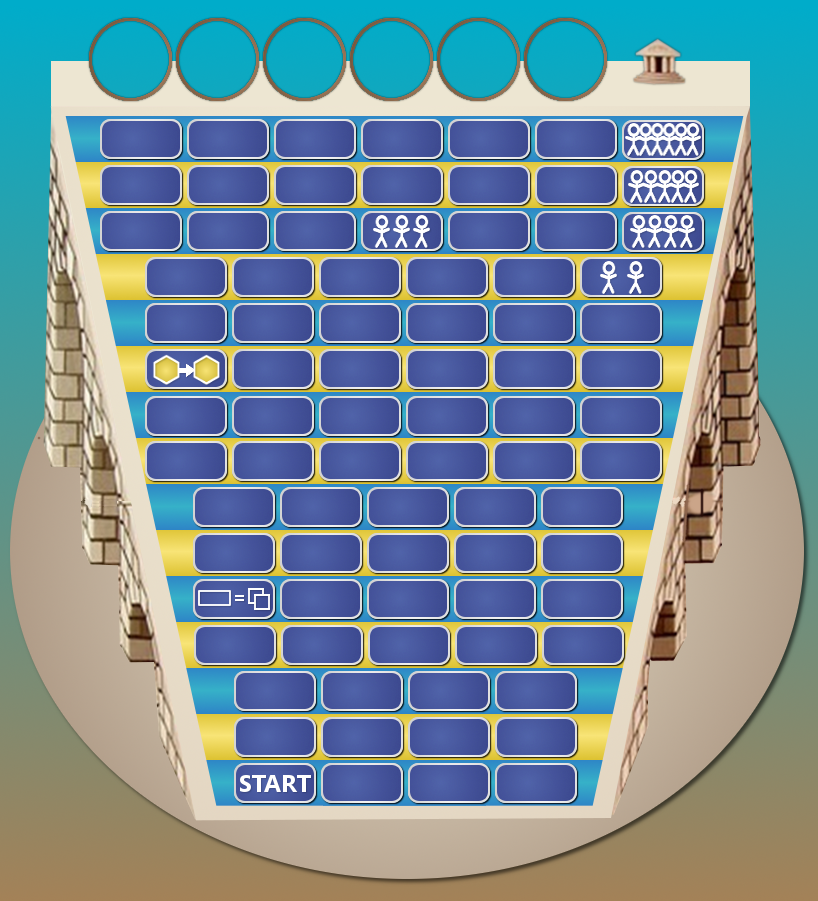
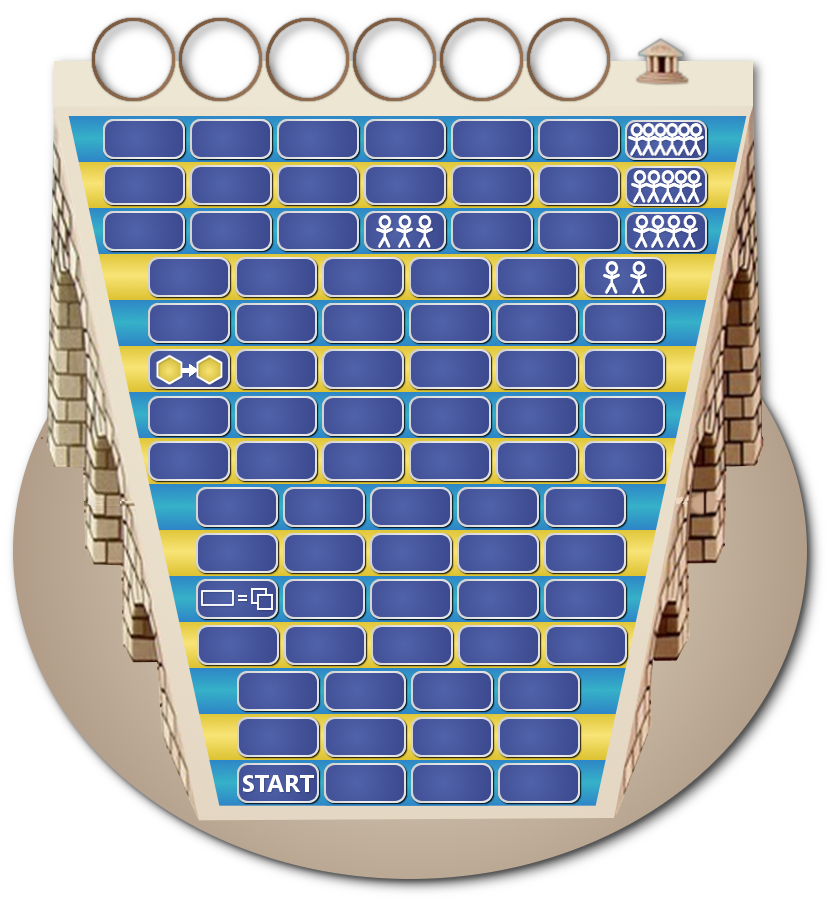
Wonder Screen

diff --git a/src/Gameplay/Views/WonderView.java b/src/Gameplay/Views/WonderView.java
@@ -1,12 +1,17 @@
 package Gameplay.Views;
 
 import javax.swing.*;
+
+import MapBuilder.Views.Utility.ImageLoader;
+
 import java.awt.*;
 import java.awt.event.ActionEvent;
 import java.awt.event.ActionListener;
+import java.awt.image.BufferedImage;
 
 public class WonderView extends JPanel {
-
+	BufferedImage wonder = ImageLoader.getImage("WONDER");
+	BufferedImage wonderBackground = ImageLoader.getImage("WONDER_BACKGROUND");
     ScreenSelectButtons screenSelectBtns;
     Display display;
 
@@ -18,7 +23,15 @@ public class WonderView extends JPanel {
         setBackground( new Color( 0xffa7e163 ) );
         setVisible(true);
     }
-
+    
+    @Override
+    public void paintComponent(Graphics g) {
+    	((Graphics2D)(g)).setRenderingHint(RenderingHints.KEY_RENDERING, RenderingHints.VALUE_RENDER_QUALITY);
+    	int height = (int)(getHeight() * 0.85);
+    	int width = (834 * height)/906;
+    	g.drawImage(wonderBackground, 0 , 0, getWidth(), getHeight(), null);
+    	g.drawImage(wonder, this.getWidth()/2 - width/2 , (int)(getHeight() * 0.1), width, height, null);
+    }
 
     public void addCustomListenersToScreenSelectBtns() {
 

diff --git a/src/MapBuilder/Views/Utility/ImageLoader.java b/src/MapBuilder/Views/Utility/ImageLoader.java
@@ -50,6 +50,8 @@ public class ImageLoader {
             cachedImages.put("BOMB", ImageIO.read(ImageLoader.class.getResourceAsStream("/Images/bomb.png")));
             cachedImages.put("SAVE", ImageIO.read(ImageLoader.class.getResourceAsStream("/Images/save.png")));  
             cachedImages.put("LOAD", ImageIO.read(ImageLoader.class.getResourceAsStream("/Images/load.png")));   
+            cachedImages.put("WONDER", ImageIO.read(ImageLoader.class.getResourceAsStream("/Images/wonder.png")));  
+            cachedImages.put("WONDER_BACKGROUND", ImageIO.read(ImageLoader.class.getResourceAsStream("/Images/wonderBackground.png"))); 
         }
         catch (Exception e) {
             e.printStackTrace();

diff --git a/src/Gameplay/Views/PreGameView.java b/src/Gameplay/Views/PreGameView.java
@@ -46,7 +46,8 @@ public class PreGameView extends JPanel {
         public void paintComponent( Graphics g )
         {
             super.paintComponent( g );
-
+            ((Graphics2D)(g)).setRenderingHint(RenderingHints.KEY_RENDERING, RenderingHints.VALUE_RENDER_QUALITY);
+            ((Graphics2D)(g)).setRenderingHint(RenderingHints.KEY_TEXT_ANTIALIASING, RenderingHints.VALUE_TEXT_ANTIALIAS_ON);
             g.drawImage(image, 0, 0, this.getWidth(), this.getHeight(), 0, 0, image.getWidth(),
                     image.getHeight(), null);
 
